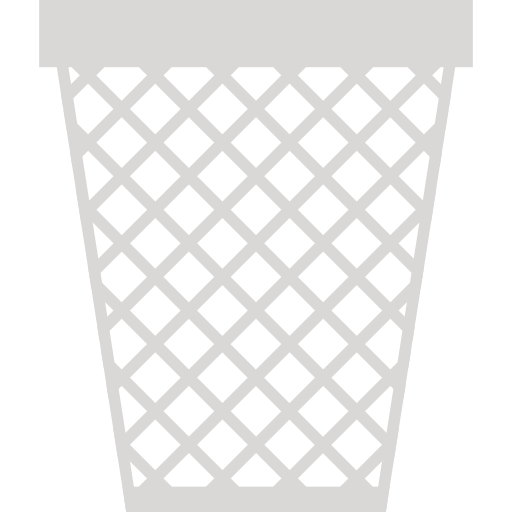
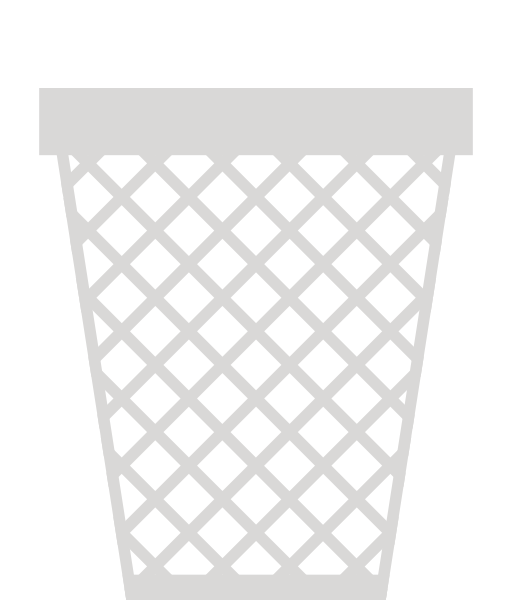
add trash can

diff --git a/src/Components/Trash/Trash.jsx b/src/Components/Trash/Trash.jsx
@@ -1,0 +1,32 @@
+import React from 'react';
+import binPng from '../../Images/empty-trash.png';
+import rubbishPng from '../../Images/trash.png';
+import { emptyTrash } from './TrashUtils'
+
+import './Trash.css'
+
+class Trash extends React.Component
+{
+  handleOnClick = () => {
+    emptyTrash();
+  }
+
+  render() {
+    return <>
+        <div className="trash-bin">
+            <img
+                id="rubbish"
+                src={rubbishPng}
+                alt="rubbish"
+                className='absolute' />
+            <img
+                src={binPng}
+                alt="empty trash bin"
+                className="absolute"
+                onClick={this.handleOnClick}/>
+        </div>
+    </>
+  }
+}
+
+export default Trash;

diff --git a/src/Components/TidyUp.jsx b/src/Components/TidyUp.jsx
@@ -1,12 +1,14 @@
 import React from 'react';
-import Plant from './Plant';
 import bgImg from '../Images/background.png'
+import Trash from './Trash/Trash'
+import Plant from './Plant/Plant';
 
 class TidyUp extends React.Component {
   render() {
     return <>
         <div className="container">
             <img src={bgImg} alt="room with powder blue walls" />
+            <Trash />
             <Plant />
         </div>
 

diff --git a/src/Components/Trash/TrashUtils.js b/src/Components/Trash/TrashUtils.js
@@ -1,0 +1,12 @@
+const emptyTrash = () => {
+    const rubbishImg = document.getElementById('rubbish');
+    if (rubbishImg) {
+        if (rubbishImg.style.visibility === 'hidden') {
+            rubbishImg.style.visibility = 'visible';
+        } else {
+            rubbishImg.style.visibility = 'hidden';
+        }
+    }
+}
+
+export { emptyTrash };

diff --git a/src/Components/Trash/Trash.css b/src/Components/Trash/Trash.css
@@ -1,0 +1,16 @@
+.trash-bin {
+    position: absolute;
+    top: 600px;
+    left: 240px;
+
+    width: 150px;
+    height: 176px;
+
+}
+
+.trash-bin .absolute {
+    position: absolute;
+    top: 0;
+    left: 0;
+    width: 100%;
+}

diff --git a/src/Components/Plant/Plant.jsx b/src/Components/Plant/Plant.jsx
@@ -1,5 +1,5 @@
 import React from 'react';
-import plantPNG from '../Images/plant.png';
+import plantPNG from '../../Images/plant.png';
 import './Plant.css'
 import { positions, movePlant } from './PlantUtils.js'
 

diff --git a/src/Components/Plant/PlantUtils.js b/src/Components/Plant/PlantUtils.js
@@ -1,7 +1,7 @@
 const positions = {
     pos1: { x: 50, y: 625 },
     pos2: { x: 100, y: 550 },
-    pos3: { x: 150, y: 475 },
+    pos3: { x: 155, y: 475 },
 };
 const posKeys = Object.keys(positions);
 
